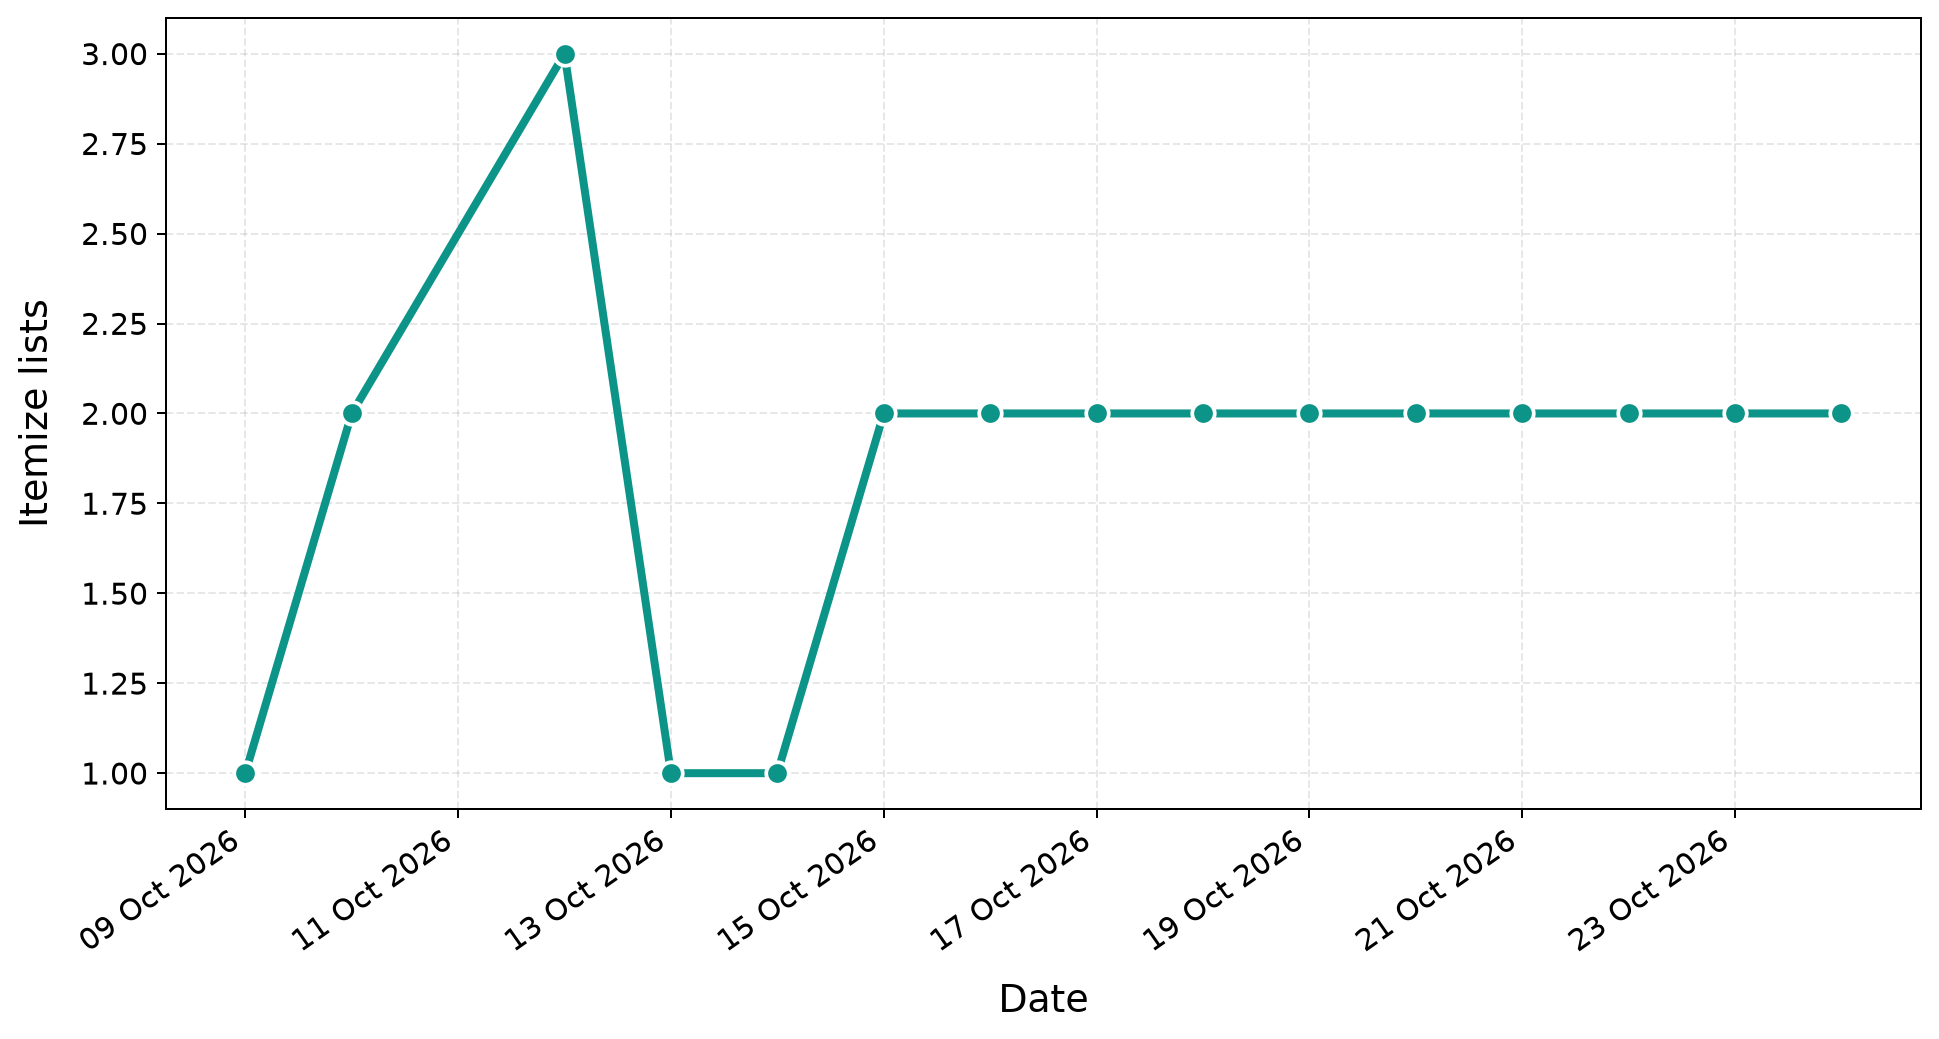
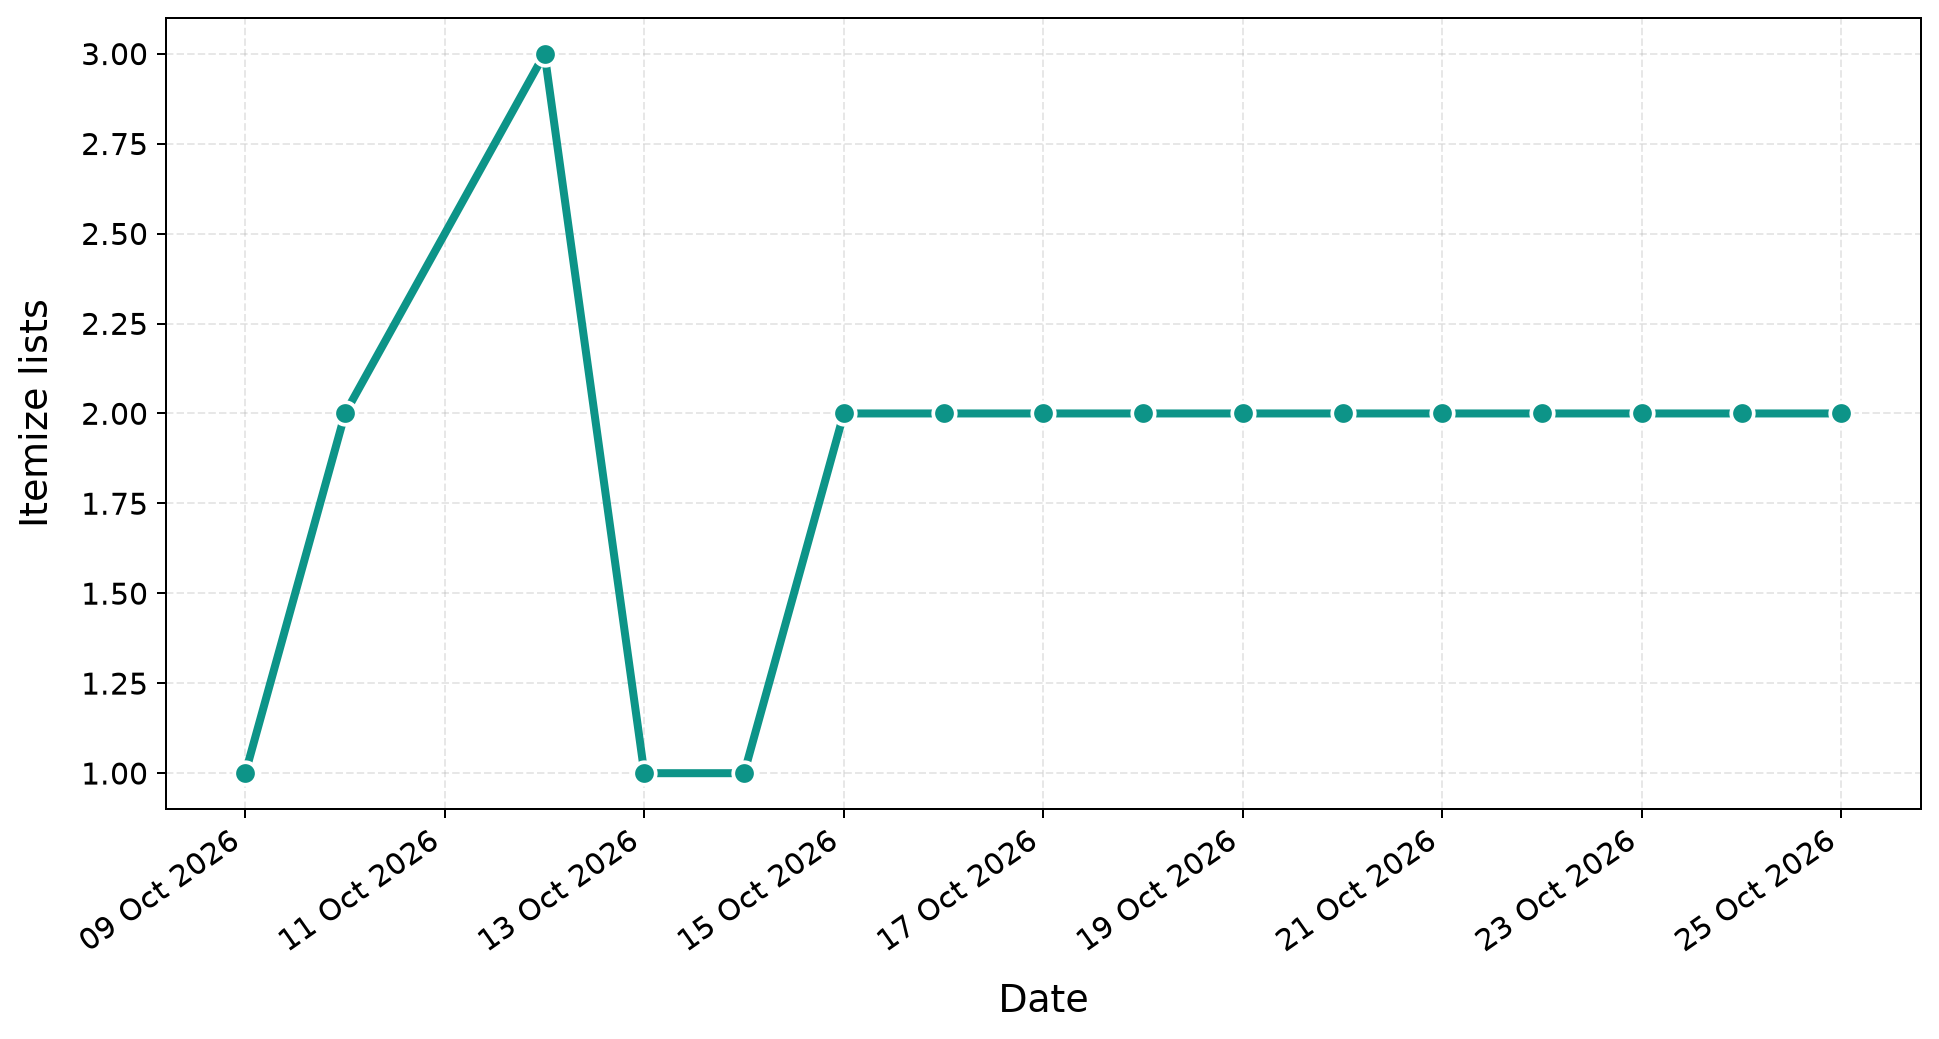
Update thesis progress dashboard

diff --git a/index.html b/index.html
@@ -12,7 +12,7 @@
     <p class="eyebrow">THESIS WRITING LOG</p>
     <h1>Thesis Progress</h1>
     <p>A visual overview of writing progress over time.</p>
-    <p class="updated">Last updated: 2026-10-24 17:58 CEST</p>
+    <p class="updated">Last updated: 2026-10-25 01:11 CEST</p>
   </header>
 
   <main>
@@ -28,20 +28,20 @@
 
         <article class="summary-card">
           <p class="summary-label">Total words</p>
-          <p class="summary-total">4,724</p>
+          <p class="summary-total">4,853</p>
           <p class="summary-change"
              style="color: #16A34A;">
-            +1,763 this week
+            +1,892 this week
           </p>
         </article>
         
 
         <article class="summary-card">
           <p class="summary-label">Total figures</p>
-          <p class="summary-total">13</p>
+          <p class="summary-total">14</p>
           <p class="summary-change"
              style="color: #16A34A;">
-            +2 this week
+            +3 this week
           </p>
         </article>
         
